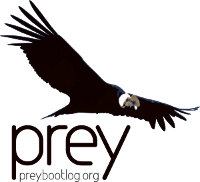
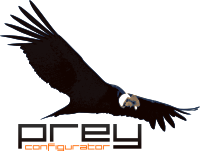
Updated Prey pixmap for Prey configurator

diff --git a/configure.py b/configure.py
@@ -137,9 +137,9 @@ class PreyConfigurator:
         image.set_from_file("/usr/share/prey/pixmaps/prey.png")
         main_vbox.add(image)
 
-        label = gtk.Label("Prey Configurator")
-        label.set_alignment(0, 0.5)
-        main_vbox.pack_start(label, False, False, 5)
+        # label = gtk.Label("Prey Configurator")
+        # label.set_alignment(0, 0.5)
+        # main_vbox.pack_start(label, False, False, 5)
 
         # first frame
 
